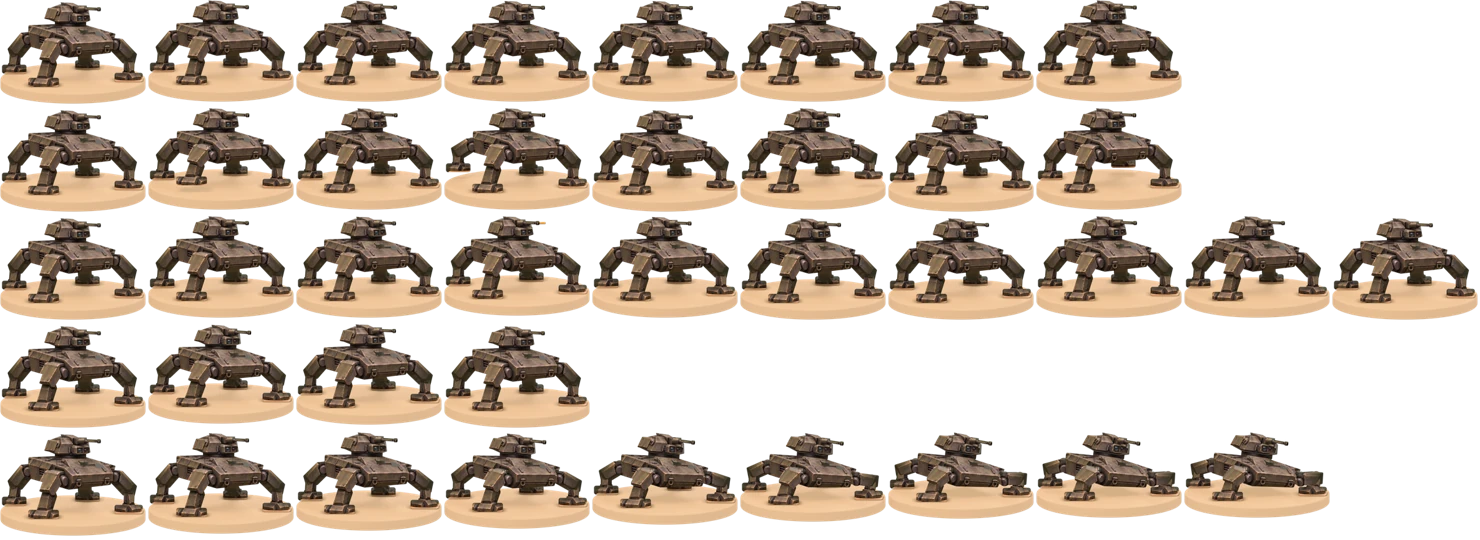
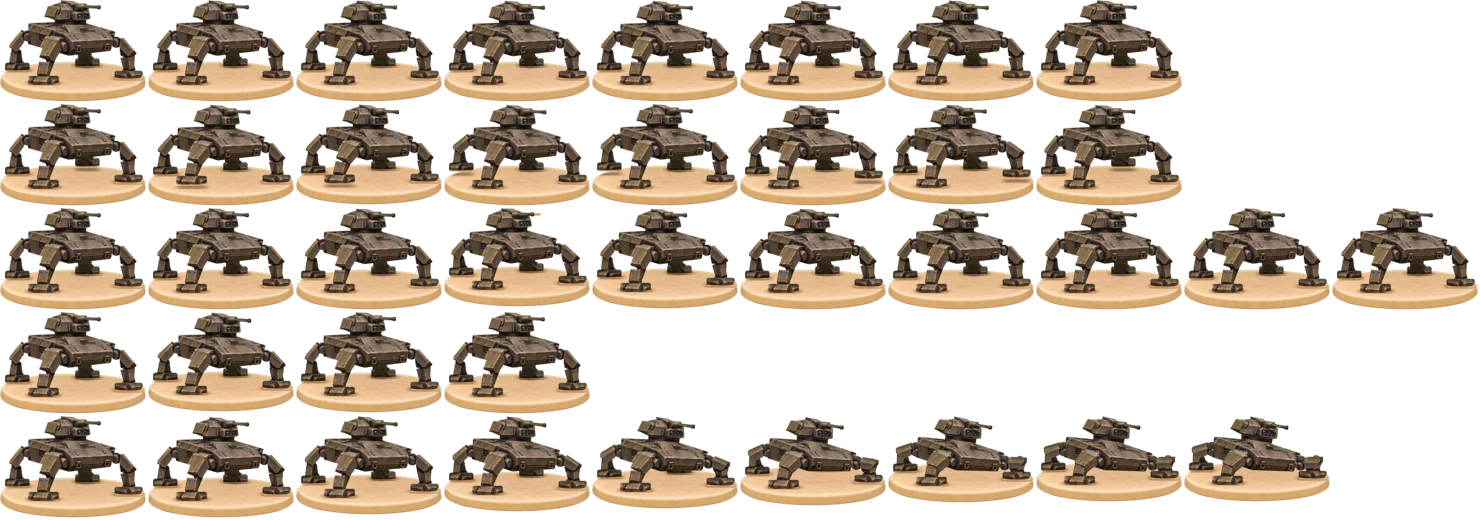
Codex task unit-anim-3d-hunter-killer: work left uncommitted in the sandbox

Changed region(s): [[0.0, 0.0, 1.0, 1.0]]

diff --git a/tools/art/anim3d/units/hunter-killer/finish.py b/tools/art/anim3d/units/hunter-killer/finish.py
@@ -50,12 +50,20 @@ for o in sc.objects:
  # Painting-specific display transform and camera-ray pigment avoid double-lighting.
  em=n.new('ShaderNodeEmission');l.new(mix.outputs[0],em.inputs['Color']);ray=n.new('ShaderNodeLightPath');factor=n.new('ShaderNodeMath');factor.operation='MULTIPLY';l.new(mask.outputs[0],factor.inputs[0]);l.new(ray.outputs['Is Camera Ray'],factor.inputs[1]);strength=n.new('ShaderNodeMath');strength.operation='MULTIPLY';strength.inputs[1].default_value=.94;l.new(factor.outputs[0],strength.inputs[0]);mixs=n.new('ShaderNodeMixShader');l.new(strength.outputs[0],mixs.inputs[0]);l.new(s.outputs[0],mixs.inputs[1]);l.new(em.outputs[0],mixs.inputs[2]);l.new(mixs.outputs[0],out.inputs['Surface'])
  records.append(o.name)
-# Stone is intentionally independent of the painting's feet/contact shadows.
-m=bpy.data.materials['MAT-cream stone E9CFA0'];n=m.node_tree.nodes;l=m.node_tree.links;s=n.get('Principled BSDF');noise=n.new('ShaderNodeTexNoise');noise.inputs['Scale'].default_value=150;b=n.new('ShaderNodeBump');b.inputs['Strength'].default_value=.10;b.inputs['Distance'].default_value=.008;l.new(noise.outputs['Fac'],b.inputs['Height']);l.new(b.outputs[0],s.inputs['Normal']);s.inputs['Roughness'].default_value=.88
-# Camera-only painted stone preserves warm rim pigment; short-range AO retains
-# real foot contact without baking source feet into the fixed base.
-ao=n.new('ShaderNodeAmbientOcclusion');ao.inputs['Color'].default_value=(.815,.624,.352,1);ao.inputs['Distance'].default_value=.20
-em=n.new('ShaderNodeEmission');l.new(ao.outputs['Color'],em.inputs['Color']);ray=n.new('ShaderNodeLightPath');fac=n.new('ShaderNodeMath');fac.operation='MULTIPLY';fac.inputs[1].default_value=.72;l.new(ray.outputs['Is Camera Ray'],fac.inputs[0]);blend=n.new('ShaderNodeMixShader');l.new(fac.outputs[0],blend.inputs[0]);l.new(s.outputs[0],blend.inputs[1]);l.new(em.outputs[0],blend.inputs[2]);l.new(blend.outputs[0],n.get('Material Output').inputs['Surface'])
+# Independent stone material: camera-visible mineral grain, physical contact AO,
+# and only the unobscured lower painted disc. No reference foot/shadow survives.
+base=bpy.data.objects['GEO-Stationary cream disc']
+m=bpy.data.materials['MAT-cream stone E9CFA0'];n=m.node_tree.nodes;l=m.node_tree.links;s=n.get('Principled BSDF')
+noise=n.new('ShaderNodeTexNoise');noise.inputs['Scale'].default_value=110;noise.inputs['Detail'].default_value=3
+b=n.new('ShaderNodeBump');b.inputs['Strength'].default_value=.20;b.inputs['Distance'].default_value=.012;l.new(noise.outputs['Fac'],b.inputs['Height']);l.new(b.outputs[0],s.inputs['Normal']);s.inputs['Roughness'].default_value=.88
+ramp=n.new('ShaderNodeValToRGB');ramp.color_ramp.elements[0].position=.22;ramp.color_ramp.elements[0].color=(.70,.48,.26,1);ramp.color_ramp.elements[1].position=.78;ramp.color_ramp.elements[1].color=(.95,.77,.51,1);l.new(noise.outputs['Fac'],ramp.inputs[0])
+uv=base.data.uv_layers.new(name='StoneCamera')
+for loop in base.data.loops:
+ p=world_to_camera_view(sc,sc.camera,base.matrix_world@base.data.vertices[loop.vertex_index].co);uv.data[loop.index].uv=(p.x,p.y)
+uvnode=n.new('ShaderNodeUVMap');uvnode.uv_map='StoneCamera';tex=n.new('ShaderNodeTexImage');tex.image=bpy.data.images.load(str(ASSETS/'stone-projection.png'));tex.extension='CLIP';l.new(uvnode.outputs[0],tex.inputs[0])
+pigment=n.new('ShaderNodeMixRGB');l.new(tex.outputs['Alpha'],pigment.inputs[0]);l.new(ramp.outputs[0],pigment.inputs[1]);l.new(tex.outputs['Color'],pigment.inputs[2]);l.new(pigment.outputs[0],s.inputs['Base Color'])
+ao=n.new('ShaderNodeAmbientOcclusion');l.new(pigment.outputs[0],ao.inputs['Color']);ao.inputs['Distance'].default_value=.20
+em=n.new('ShaderNodeEmission');l.new(ao.outputs['Color'],em.inputs['Color']);ray=n.new('ShaderNodeLightPath');fac=n.new('ShaderNodeMath');fac.operation='MULTIPLY';fac.inputs[1].default_value=.91;l.new(ray.outputs['Is Camera Ray'],fac.inputs[0]);blend=n.new('ShaderNodeMixShader');l.new(fac.outputs[0],blend.inputs[0]);l.new(s.outputs[0],blend.inputs[1]);l.new(em.outputs[0],blend.inputs[2]);l.new(blend.outputs[0],n.get('Material Output').inputs['Surface'])
 bpy.ops.file.pack_all();bpy.ops.wm.save_as_mainfile(filepath=str(MASTER/'finished.blend'))
-(MASTER/'materials.json').write_text(json.dumps({'projected_meshes':records,'bakes':{name:{k:str(v.filepath_raw) for k,v in maps.items()} for name,maps in baked.items()},'hidden_fill':'original tank painted olive CC BY 4.0; box projected', 'base':'linear pigment from sRGB E9CFA0; independent contact shadows'},indent=2))
+(MASTER/'materials.json').write_text(json.dumps({'projected_meshes':records,'bakes':{name:{k:str(v.filepath_raw) for k,v in maps.items()} for name,maps in baked.items()},'hidden_fill':'original tank painted olive CC BY 4.0; box projected', 'base':'generated clean stone fill plus original rim below y184, independent contact shadows'},indent=2))
 log('Finished frozen camera projection on solid geometry; six actual AO/curvature bakes, generated olive hidden-surface fill, grain and chipped edges. No alpha clipping or painted base feet.')

diff --git a/tools/art/anim3d/units/hunter-killer/scene.py b/tools/art/anim3d/units/hunter-killer/scene.py
@@ -39,7 +39,7 @@ def poly(name,points,depth,material=olive,parent=None):
  return finish(o,name,material,parent,.018)
 # Camera and one stationary cream base.
 camdata=bpy.data.cameras.new('CAM-reference');cam=bpy.data.objects.new('CAM-reference',camdata);sc.collection.objects.link(cam);cam.location=TARGET+VIEW*15;cam.rotation_euler=(-VIEW).to_track_quat('-Z','Y').to_euler();camdata.type='ORTHO';camdata.ortho_scale=5.12;sc.camera=cam
-bpy.ops.mesh.primitive_cylinder_add(vertices=128,radius=2.32,depth=.32,location=(0,0,.16));base=finish(bpy.context.object,'Stationary cream disc',stone,bevel=.035)
+bpy.ops.mesh.primitive_cylinder_add(vertices=128,radius=2.32,depth=.32,location=(0,0,.16));base=finish(bpy.context.object,'Stationary cream disc',stone,bevel=.09)
 # Chassis is an independent rigid transform; legs solve against its moving hips.
 body=empty('RIG-chassis',(0,0,1.45));bpy.context.view_layer.update()
 # Explicit six-face hull topology: each visible plane is an actual armour face.
@@ -66,20 +66,31 @@ cyl('Muzzle collar',screen(167,58,.3),screen(172,58,.3),.064,steel,recoil)
 cyl('Dark recessed bore',screen(172,58,.3),screen(172.4,58,.3),.040,dark,recoil)
 # Four independent closed mechanical limbs; no animal skeleton or borrowed dog motion.
 legs=[]
-for name,h,k,f in [('near-left',(108,116,1.61),(91,142,.95),(81,174,.43)),('far-left',(55,104,1.53),(36,127,.91),(34,153,.43)),('near-right',(197,114,1.60),(218,136,.95),(217,166,.43)),('far-right',(146,118,1.44),(147,133,.86),(151,146,.43))]:
+for name,h,k,f in [('near-left',(108,116,1.61),(91,142,.95),(81,174,.43)),('far-left',(55,104,1.53),(36,127,.91),(39,153,.43)),('near-right',(197,114,1.60),(218,136,.95),(217,166,.43)),('far-right',(146,118,1.44),(147,133,.86),(151,146,.43))]:
  hip,knee,foot=[atz(*v) for v in (h,k,f)]
  upper=empty('RIG-upper-'+name,hip);lower=empty('RIG-lower-'+name,knee);shoe=empty('RIG-foot-'+name,foot);bpy.context.view_layer.update()
  upper.rotation_mode=lower.rotation_mode='QUATERNION'
  # Put mesh endpoints in world rest space and retain those exact transforms.
  delta=knee-hip
- if name=='near-left':
+ if name in ('near-left','far-left','near-right'):
   normal=(VIEW-delta.normalized()*delta.normalized().dot(VIEW)).normalized();plane=(hip+knee)/2+normal*.23
-  outline=[(89,106),(110,109),(114,119),(97,146),(74,138),(80,121)]
+  outline={'near-left':[(89,106),(110,109),(114,119),(97,146),(74,138),(80,121)],
+           'far-left':[(46,94),(54,100),(49,115),(39,129),(26,122),(27,117)],
+           'near-right':[(201,108),(209,107),(230,132),(218,144),(204,135)]}[name]
   points=[(x,y,normal.dot(plane-screen(x,y))/normal.dot(VIEW)) for x,y in outline]
   o=poly('Upper armour '+name,points,.43,olive,upper)
  else:
   o=cube('Upper armour '+name,(hip+knee)/2,(.43,.38,delta.length+.13),olive,None,.035);o.rotation_euler=delta.to_track_quat('Z','Y').to_euler();bpy.context.view_layer.update();o.parent=upper;o.matrix_parent_inverse=upper.matrix_world.inverted()
- delta=foot-knee;o=cube('Lower shin '+name,(knee+foot)/2,(.42 if name=='near-left' else .32,.31,delta.length+.08),olive,None,.025);o.rotation_euler=delta.to_track_quat('Z','Y').to_euler();bpy.context.view_layer.update();o.parent=lower;o.matrix_parent_inverse=lower.matrix_world.inverted()
+ delta=foot-knee
+ shin_outlines={'near-left':[(74,145),(95,147),(90,166),(70,166)],
+                'far-left':[(29,129),(46,130),(43,147),(26,147)],
+                'near-right':[(204,139),(223,137),(228,158),(209,158)]}
+ if name in shin_outlines:
+  normal=(VIEW-delta.normalized()*delta.normalized().dot(VIEW)).normalized();plane=(knee+foot)/2+normal*.16
+  points=[(x,y,normal.dot(plane-screen(x,y))/normal.dot(VIEW)) for x,y in shin_outlines[name]]
+  poly('Lower shin '+name,points,.31,olive,lower)
+ else:
+  o=cube('Lower shin '+name,(knee+foot)/2,(.32,.31,delta.length+.08),olive,None,.025);o.rotation_euler=delta.to_track_quat('Z','Y').to_euler();bpy.context.view_layer.update();o.parent=lower;o.matrix_parent_inverse=lower.matrix_world.inverted()
  for label,p,par,rad in [('Hip',hip,upper,.175),('Knee',knee,lower,.13)]:
   cyl(label+' pin '+name,p-VIEW*.20,p+VIEW*.24,rad,dark,par);cyl(label+' cap '+name,p+VIEW*.24,p+VIEW*.265,rad*.8,steel,par)
  o=cube('Broad foot '+name,(foot.x,foot.y,.415),(.98 if name=='near-left' else .9 if name=='near-right' else .78,.58,.19),olive,shoe,.065)

diff --git a/tools/art/anim3d/units/hunter-killer/animate.py b/tools/art/anim3d/units/hunter-killer/animate.py
@@ -29,9 +29,9 @@ for clip,(count,fps,loop) in CLIPS.items():
  for frame in range(1,count+2 if loop else count+1):
   t=(frame-1)/(count if loop else count-1);s=math.sin(TAU*t);body.location=body0;body.rotation_euler=(0,0,0);turret.rotation_euler=turret0;recoil.location=recoil0;flash.hide_render=True
   if clip=='idle':body.location.z-=.012*(1-math.cos(TAU*t));turret.rotation_euler.z+=math.radians(2)*s
-  elif clip=='move':body.location.x+=.025*math.sin(TAU*t);body.location.z-=.035*math.sin(4*TAU*t)**2
+  elif clip=='move':body.location.x+=.055*math.sin(TAU*t);body.location.z-=.025*(1-math.cos(2*TAU*t));body.rotation_euler.y=.012*math.sin(TAU*t)
   elif clip=='attack':
-   pulse=max(0,1-abs(t-.34)/.14);body.location.x-=.045*pulse;body.location.z-=.07*pulse;turret.rotation_euler.z+=math.radians(3)*math.sin(math.pi*t);recoil.location.x-=.14*pulse;flash.hide_render=not(.27<t<.43)
+   pulse=[0,.0,.15,1,.55,.20,.05,0,0,0][frame-1];body.location.x-=.075*pulse;body.location.z-=.09*pulse;body.rotation_euler.y=-.025*pulse;turret.rotation_euler.z+=math.radians(3)*math.sin(math.pi*t);recoil.location.x-=.24*pulse;flash.hide_render=not(.27<t<.43)
   elif clip=='hit':
    q=[0,1,-.35,0][frame-1];body.location.x+=.06*q;body.location.z-=.09*abs(q);body.rotation_euler.y+=.018*q;turret.rotation_euler.z-=.04*q
   elif clip=='death':
@@ -42,8 +42,8 @@ for clip,(count,fps,loop) in CLIPS.items():
    hip0,knee0,foot0=[Vector(leg[k]) for k in ('hip','knee','foot')];hip=body.matrix_world@(bodymat.inverted()@hip0);foot=foot0.copy();air=False
    if clip=='move':
     phase=(t-j/4)%1
-    if phase<.25:
-     u=phase*4;lift=math.sin(math.pi*u)**2;foot.z+=.24*lift;foot.y-=.12*math.sin(TAU*u)*lift;air=lift>1e-8
+    if phase<.375:
+     u=phase/.375;lift=math.sin(math.pi*u)**2;foot.z+=.18*lift;foot.y-=.03*math.sin(TAU*u)*lift;air=lift>1e-8
    knee=solve(hip,foot,knee0,hip0,foot0,*leg['lengths'])
    upper=bpy.data.objects['RIG-upper-'+leg['name']];lower=bpy.data.objects['RIG-lower-'+leg['name']];shoe=bpy.data.objects['RIG-foot-'+leg['name']]
    upper.location=hip;lower.location=knee;shoe.location=foot

diff --git a/tools/art/anim3d/units/hunter-killer/preflight.py b/tools/art/anim3d/units/hunter-killer/preflight.py
@@ -1,0 +1,49 @@
+"""Bind the editable scene set to its recipe and external texture inputs."""
+import hashlib
+import json
+import sys
+from pathlib import Path
+from common import MASTER, ASSETS, CLIPS
+
+UNIT = Path(__file__).resolve().parent
+RECIPES = ('common.py', 'prepare.py', 'scene.py', 'finish.py', 'animate.py', 'assets.lock.json')
+SCENES = ['model.blend', 'plain.blend', 'finished.blend'] + [f'clips/{c}.blend' for c in CLIPS]
+
+
+def digest(path):
+    return hashlib.sha256(Path(path).read_bytes()).hexdigest()
+
+
+def inputs():
+    pinned = json.loads((UNIT / 'assets.lock.json').read_text())
+    for name, expected in pinned.items():
+        assert digest(name) == expected, f'Changed source asset: {name}'
+    return {str(UNIT / name): digest(UNIT / name) for name in RECIPES} | pinned
+
+
+def main(task):
+    pending = MASTER / 'build-pending'
+    receipt = MASTER / 'build-inputs.json'
+    if task == 'begin':
+        pending.write_text(json.dumps(inputs(), indent=2))
+        return
+    if task == 'seal':
+        current = inputs()
+        assert json.loads(pending.read_text()) == current, 'Recipe changed during build; rebuild'
+        files = {str(MASTER / name): digest(MASTER / name) for name in SCENES}
+        files.update({str(ASSETS / name): digest(ASSETS / name)
+                      for name in ('projection.png', 'stone-projection.png')})
+        receipt.write_text(json.dumps({'inputs': current, 'outputs': files}, indent=2))
+        pending.unlink()
+        return
+    assert task == 'verify'
+    assert not pending.exists(), 'Incomplete build; rebuild and finish before rendering'
+    report = json.loads(receipt.read_text())
+    assert inputs() == report['inputs'], 'Scene recipes changed; rebuild before GPU pass'
+    for name, expected in report['outputs'].items():
+        assert digest(name) == expected, f'Changed scene or derived texture: {name}'
+    print('Sealed recipe, inputs, derived textures and eight scene files verified.')
+
+
+if __name__ == '__main__':
+    main(sys.argv[1])

diff --git a/tools/art/anim3d/units/hunter-killer/deliver.py b/tools/art/anim3d/units/hunter-killer/deliver.py
@@ -56,15 +56,15 @@ def review(stage):
                      for n in (256,512) if meta['resolution']>=n}
     (folder/'graded.json').write_text(json.dumps(meta,indent=2))
     if stage=='c':
-        sheet([ref,images[0]],['Painting','Cycles rest'],REVIEW/f'{SLUG}-c-textured-lit.png')
+        sheet([ref,images[0]],['Painting',f'Cycles {meta["device"]} {meta["resolution"]}px'],REVIEW/f'{SLUG}-c-textured-lit.png')
         canvas=Image.new('RGBA',(768,376),CREAM);d=ImageDraw.Draw(canvas)
-        for i,(im,label) in enumerate([(ref,'Painting'),(images[0],'3D rest'),(Image.blend(ref,images[0],.5),'50/50 crossfade')]):
+        for i,(im,label) in enumerate([(ref,'Painting'),(images[0],f'3D {meta["device"]} rest'),(Image.blend(ref,images[0],.5),'50/50 crossfade')]):
             canvas.alpha_composite(im,(256*i,28));token=read(Path(f'app/src/assets/units/{SLUG}-64.png')) if i==0 else small(im,64);canvas.alpha_composite(token,(256*i+96,302));d.text((256*i+8,8),label,fill='#423a30')
         canvas.convert('RGB').save(REVIEW/f'{SLUG}-f-restpose-compare.png')
     elif stage=='details':
         crops=[];labels=[]
         for label,box in [('turret / optics',(78,45,175,84)),('hull wear',(51,80,199,138)),('near leg',(55,103,117,184))]:
-            for im,prefix in [(read(ASSETS/'projection.png'),'Painting'),(images[0],'3D')]:
+            for im,prefix in [(ref,'Painting 256px'),(images[0],'3D 256px')]:
                 scale=im.width/256;crop=im.crop(tuple(round(v*scale) for v in box));fit=min(248/crop.width,240/crop.height);crop=crop.resize((round(crop.width*fit),round(crop.height*fit)),Image.Resampling.LANCZOS)
                 tile=Image.new('RGBA',(256,256));tile.alpha_composite(crop,((256-crop.width)//2,(256-crop.height)//2));crops.append(tile);labels.append(prefix+' '+label)
         sheet(crops,labels,REVIEW/f'{SLUG}-c-details.png')

diff --git a/tools/art/anim3d/units/hunter-killer/prepare.py b/tools/art/anim3d/units/hunter-killer/prepare.py
@@ -14,6 +14,25 @@ fig = fig.resize((round(fig.width*k), round(fig.height*k)), Image.Resampling.LAN
 out = Image.new('RGBA', (1024, 1024))
 out.alpha_composite(fig, ((1024-fig.width)//2, (1024-fig.height)//2))
 out.save(ASSETS / 'projection.png')
+# Fit the generated clean disc to the original stone's known camera landmarks.
+# Its alpha never cuts Blender geometry; the original lower rim stays intact.
+fill = Image.open(ASSETS / 'stone-fill-source.png').convert('RGBA')
+box = fill.getchannel('A').point(lambda x: 255 if x > 240 else 0).getbbox()
+fill = fill.crop(box).resize((928, 248), Image.Resampling.LANCZOS)
+clean = Image.new('RGBA', out.size)
+clean.alpha_composite(fill, (48, 592))
+# The lower disc is unobscured below the lowest painted foot. Feather a mask
+# above that line; never freeze any reference feet or contact shadows on the base.
+stone = out.copy()
+mask = Image.new('L', out.size)
+for y in range(out.height):
+    weight = max(0, min(1, (y / 4 - 184) / 4))
+    if weight:
+        for x in range(out.width):
+            mask.putpixel((x, y), round(out.getpixel((x, y))[3] * weight))
+stone.putalpha(mask)
+clean.alpha_composite(stone)
+clean.save(ASSETS / 'stone-projection.png')
 (MASTER / 'inputs.json').write_text(json.dumps({
     'source_sha256': hashlib.sha256(source.read_bytes()).hexdigest(),
     'source_url': f'https://pub-fb5c281dd12d4ea4bbd38d657cdeb907.r2.dev/app/src/assets/units/{SLUG}-source.png',

diff --git a/tools/art/anim3d/units/hunter-killer/REVIEW.md b/tools/art/anim3d/units/hunter-killer/REVIEW.md
@@ -1,32 +1,33 @@
-# Hunter-killer round 1
+# Hunter-killer driver round 2
 
-CPU candidate; **not PASS**. The rest image reads as the same walker at 64 px, and frozen painting projection gives convincing panel wear at 256 px. It is still distinguishable from the painting: the cream disc is too smooth, its rim/edge highlights are flatter, the leg/foot silhouettes and upper hull proportions differ, and the projection is visibly stretched in alternate views. The move is stiff on-the-spot mechanical stepping rather than convincing advancing locomotion; the compact attack and folding death need timing/art review. The original prompt explicitly asks for a four-legged machine, so aircraft motion and animal mocap would be the wrong category.
+**Not PASS.** At 64 px this reads as the same unit, with closer outer legs and a less plastic cream base. At 256 px the stone grain and silhouettes improve on round 1, but the turret and joint shapes remain simplified, the base highlight is too continuous, and some projected armour loses depth when moving. Movement is still deliberate in-place mechanical stepping; it does not convincingly advance. No PASS marker was written.
 
-## Delivered
+## Changes and evidence
 
-- Unit-isolated build/material/rig/render/review/delivery scripts, provenance, input hashes and no-argument executable `gpu.sh`.
-- External editable model/plain/finished masters, five keyed clip scenes, six AO/Pointiness bakes, and all forty CPU256 RGBA frames under `~/LegatumRuns/anim-pilot/masters/hunter-killer/`.
-- Every required b/c/details/d/e/f/g review image, five animated WebPs, running log and round-1 MP4 under `~/LegatumRuns/anim-pilot/review/3d-v2/`.
-- Candidate `app/src/assets/units/anim/hunter-killer.webp` + JSON: 160 px logical frames, per-frame trim offsets, 8/8/10/4/10 samples, Q90, **182,178 bytes**. No runtime wiring replaces the painting.
+- Opened the lead GPU c/f, every clip strip and sampled round-1 MP4 frames before editing. Round 1 actually succeeded: 187,526 bytes at Q90 and verified GPU512/256 masters. Archived its review files and master frames in `masters/hunter-killer/driver-r1-gpu/`.
+- Refitted full-depth outer upper armour and three shin contours; moved the far-left foot inward and widened the stone bevel. Kept the closed mechanical rig, six AO/Pointiness bakes, original projected painting, generated olive backfill and product lights.
+- Built-in ImageGen supplied a clean stone occlusion fill, registered to the base and feathered into the original lower rim. The real mesh carries it; alpha never cuts geometry and no source feet are painted on the fixed disc. Prompt: `stone-fill.prompt.txt`; bitmap: external `assets/hunter-killer/stone-fill-source.png`; input hash and licence recorded.
+- Lengthened overlapping foot swings, reduced fore-aft travel after the rear leg reached its IK limit, added chassis weight shift and stronger recoil/recovery. All rigid links keep their lengths and planted feet retain their positions.
+- Added sealed recipe/input/scene checks before final rendering and GPU work. Incomplete or stale builds now fail explicitly. `gpu.sh` defaults to round 2 and still renders every stage, all masters, atlas, validation and movie.
+- Review c/f labels state CPU/GPU. Detail crops now compare both images at native 256 px; previously the original 1024 source was compared against an enlarged 256 render.
 
-## Verification
+## Exact checks
 
-- Complete CPU final pipeline: exit 0, Cycles, eight samples, actual 256 px renders; atlas validation passed all forty alpha/trim reconstructions, bounds, motion, size/quality and held-death checks. Idle/move boundary-to-largest-internal-difference ratios .789/.783.
-- Geometry audit: 62 manifold closed meshes, four rigid IK legs, six baked maps, zero sampled planted-foot error, maximum segment-length error 2.63e-7 Blender units. Saved endpoint transforms meet the knees/feet, base stays fixed, loop endpoints close and no zero/near-zero scale is used. Not a full collision audit.
-- FFprobe: 1600x348, H.264, yuv420p, 240 frames, exactly eight seconds. Decoded representative MP4 frames visually inspected.
-- Python AST and shell syntax checks passed; `git diff --check` passed.
-- The GPU entry point was exercised: input hashes and scene audit passed, then it stopped explicitly with `No Metal device; refusing CPU fallback`, as expected in this sandbox. CPU evidence was preserved. **Actual GPU512 masters and independent GPU verification are pending**; previews were not upscaled and no GPU success is claimed.
+- Complete CPU pipeline: exit 0; Cycles CPU, 256 px, 16 samples. All b/c/details/d/g stages plus 8/8/10/4/10 clip frames, five animated WebPs, f comparison and round-2 MP4 regenerated. No CPU preview was upscaled to a 512 master; existing round-1 GPU512 files remain historical until the new GPU pass.
+- Trimmed 160 px atlas: **193,792 bytes, WebP Q90** (Q95 was 250,144 bytes). All 40 frames retained; transparent alpha/trim reconstruction, frame bounds, clip metadata, motion, provenance and held death passed. Idle/move loop seam ratios 0.781931/0.734352.
+- Geometry audit: **62 closed manifold meshes**, four IK legs, six baked maps, zero sampled planted-foot error, maximum segment-length error **2.626983e-7** Blender units; fixed base and closed loop endpoints. This is not a complete collision audit.
+- FFprobe: **1600x348 H.264 yuv420p, 240 frames, exactly 8 seconds**. All five strips, top/front foot sheet and decoded MP4 contact sheet inspected; no detached parts or frozen painted feet observed in those views.
+- Preflight positive check and intentional incomplete/stale-recipe rejection checks passed. Python AST, shell syntax and whitespace checks passed. No Rust or UI changes, so their build suites were not run.
+- Round-2 GPU512 rendering remains pending on the lead's Metal host. The current CPU evidence is not a GPU or art sign-off.
 
 ## Lead command
 
-Run from this checkout's repo root on the Metal host:
-
 ```sh
-ROUND=1 tools/art/anim3d/units/hunter-killer/gpu.sh
+ROUND=2 tools/art/anim3d/units/hunter-killer/gpu.sh
 ```
 
-This renders every stage and all clips at GPU512, retains 512/256 masters, creates the atlas, validates it, regenerates every review image and the MP4, and writes the GPU receipt only on verified success. No PASS marker is created automatically.
+Run from this checkout on the GPU host. No arguments needed. It verifies sealed masters, renders every stage serially at GPU512/96 samples, creates 256 gallery frames and the trimmed atlas, validates provenance and video, and publishes the round-2 receipt. Review painting parity before setting PASS.
 
-Non-obvious lessons: register the mechanical mount in physical space as well as the image; a tiny painted turret gap became a floating turret until a full-depth overlapping socket was added. Projected paint can hide disconnected geometry, so retain plain alternate views. A nearly straight rear leg left too little reach for upward idle bob; compress the chassis instead of stretching links or sliding feet. The stone must not carry projected feet when legs move.
+Non-obvious findings: a near-extended rear leg limits fore-aft swing well before the visible front legs do; preserve link lengths and reduce travel rather than forcing the solver. A source-projected base must exclude feet and shadows, or motion leaves ghost contacts. Detail comparisons must use matching resolution. Changes to a script must invalidate the baked scenes as well as render hashes.
 
-Git staging/commit were attempted and refused by the sandbox (`.git/worktrees/lane-14/index.lock: Operation not permitted`). Changes remain uncommitted for the runner. `origin/master` is already an ancestor of the starting HEAD; no merge was required. Rust/UI code is unchanged, so their build suites were not run. The commit-based browser art gate cannot validate this uncommitted candidate; lead art approval remains pending.
+Git staging/commit attempted; sandbox denied `.git/worktrees/lane-15/index.lock` (Operation not permitted). Changes remain uncommitted for the runner. `origin/master` is already an ancestor of HEAD. No push or PR. Commit trailer: `Co-Authored-By: gpt-6-astra (Codex) <noreply@openai.com>`.

diff --git a/tools/art/anim3d/PLAYBOOK.md b/tools/art/anim3d/PLAYBOOK.md
@@ -133,7 +133,7 @@ Publish every stage immediately: `b-plain`, `c-textured-lit`, `c-details`, `d-ri
 
 ### Motion and planted-foot check
 
-For people the standing standard is CMU free-use or Quaternius CC0 captured motion retargeted in matching rest pose and bone roll, with only the weapon-specific attack authored. For horses/elephants use an open animated quadruped; never repair foot direction by rotating feet after retargeting. Record licences in both unit and external source ledgers. This machine instead uses the vehicle family's authored mechanical motion: a rigid chassis/turret/recoil rig and four analytic two-link limbs. Each quarter-cycle raises one foot; its ground position and forward orientation stay fixed while planted. Move is a deliberate on-the-spot stepping cycle, not locomotion with simulated world displacement. Idle scans, attack aims/recoils, hit jolts, and death collapses the chassis into folded legs and holds its final two samples. No squashed segment lengths or zero scale.
+For people the standing standard is CMU free-use or Quaternius CC0 captured motion retargeted in matching rest pose and bone roll, with only the weapon-specific attack authored. For horses/elephants use an open animated quadruped; never repair foot direction by rotating feet after retargeting. Record licences in both unit and external source ledgers. This machine instead uses the vehicle family's authored mechanical motion: a rigid chassis/turret/recoil rig and four analytic two-link limbs. Each quarter-cycle begins a foot swing lasting three eighths of a cycle; its ground position and forward orientation stay fixed while planted. Move is a deliberate on-the-spot stepping cycle, not locomotion with simulated world displacement. Idle scans, attack aims/recoils, hit jolts, and death collapses the chassis into folded legs and holds its final two samples. No squashed segment lengths or zero scale.
 
 Every round renders all eight move samples from top and front to `hunter-killer-g-feet-check.png`. The audit independently reads saved foot transforms and records planted-position error, segment-length error, stationary base, closed mesh topology, nonzero scales and terminal hold. Visual review must still catch silhouette faults, collisions and timing.
 
@@ -144,7 +144,15 @@ All 40 frames remain: idle 8, move 8, attack 10, hit 4, death 10. Actual final r
 JSON has `version:2`, `trimmed:true`, `frame:{w:160,h:160,ax:80,ay:139}`, `atlas:{w,h}` and `clips`. Each clip has ordered `row`, `frames`, `fps`, `loop`, and one `rects` record per frame: `{x,y,w,h,ox,oy}`. Draw the atlas crop at `(anchorX-ax+ox, anchorY-ay+oy)`, scaling all coordinates equally. `row` is clip ordering, not a fixed atlas grid. Identical held frames reuse one rectangle. No runtime consumer is changed here.
 
 ```sh
-ROUND=1 tools/art/anim3d/units/hunter-killer/gpu.sh
+ROUND=2 tools/art/anim3d/units/hunter-killer/gpu.sh
 ```
 
 The no-argument executable renders every stage and every clip serially in Cycles GPU512 (96 samples default), publishes 512/256 masters, packs and validates the trimmed atlas, writes the geometry audit, and creates `hunter-killer-round${ROUND}.mp4`: all five decoded clips side by side at 2x on cream, exactly 8 seconds/240 frames, H.264 yuv420p. Missing Metal fails explicitly. Final independent verification checks scene/render/grade/atlas hashes, GPU device, resolution, complete frame sets, video format and duration. Progress/failure lives in `hunter-killer-gpu-status.txt`; transcript is `gpu-logs-hunter-killer-r${ROUND}.log`. Only a manual painting-parity judgement plus clean clips and a passing size contract may create `hunter-killer-PASS`; the scripts never write it automatically.
+
+### Driver round 2 refinements
+
+The lead's first GPU pass succeeded: 187,526 bytes at Q90, 40 GPU512 frames, independent GPU receipt and eight-second MP4. Preserve that evidence before overwriting previews (`masters/hunter-killer/driver-r1-gpu/`). Round 2 fits the outer upper plates and three shin silhouettes as closed extruded armour, brings the far-left foot inward, rounds the stone edge and adds recoil anticipation/recovery plus chassis weight shift. Longer overlapping foot swings reduce one-frame foot pops; forward reach is limited because the rear leg is close to full extension. Planted foot positions and segment lengths still come from the IK audit. This remains in-place mechanical stepping, not captured advancing locomotion.
+
+A new generated clean stone fill removes the walker and its contact shadows from the reference. Fit that texture to the disc landmarks, feather back to the original unobscured rim below y184/256, then freeze UVs on the physical disc. Its alpha blends pigments only, never cuts geometry. Camera-visible mineral grain and real AO retain surface detail without leaving painted feet when legs lift. The prompt, generation identity and input hash live in the unit files; the bitmap stays under `assets/hunter-killer/`. Existing generated olive still fills unseen armour. Cloth and straps do not apply to this machine.
+
+`render.sh build` starts a recipe/input seal; `finish` seals the complete eight-scene set only after all clips succeed. Final rendering and `gpu.sh` reject incomplete builds, changed recipes, changed derived textures and stale scene hashes. Rebuild then finish after any geometry/material/motion recipe change. GPU defaults to ROUND=2; the driver may override it. Every stage is published as soon as rendered. CPU checks use 256 px Cycles at 16 samples; GPU final remains a separate host pass at 512 px/96 samples. No automatic PASS marker.

diff --git a/tools/art/anim3d/units/hunter-killer/SOURCES.md b/tools/art/anim3d/units/hunter-killer/SOURCES.md
@@ -7,3 +7,7 @@
 - Vehicle chapter and paint/bake methods read with `git show astra/unit-anim-3d-vehicles` at `0b2616f595e964a79641689ec26d31d2ed56cd28`. Delivery/render helpers adapted as isolated unit-local copies from `astra/unit-anim-3d-autonomous-armour` at `8a0f4f8c733974fea55a3f51025f3bb803bd4ccf` (same repository MIT code).
 
 `assets.lock.json` pins the painting, shipped reference and generated fill. All downloaded assets, Blender masters, bakes and uncompressed renders remain under `~/LegatumRuns/anim-pilot/` outside git.
+
+## Hunter-killer driver round 2 after GPU review, 2026-11-23
+- Original built-in ImageGen clean stone occlusion fill: generation 01a2095f-d60f-7ae1-b551-c31a79587375/exec-6a833d2d-e574-4a4b-a9e9-9451f17d7016.png, original project CC BY 4.0, no public URL. Editing the recorded hunter-killer painting removes the walker and its shadows; only the exposed stone pigment textures the real 3D disc. Source stored at assets/hunter-killer/stone-fill-source.png, prompt in units/hunter-killer/stone-fill.prompt.txt, SHA256 in assets.lock.json. Original lower rim preserved below y184; generated alpha does not cut geometry.
+- Reuses the original CC BY 4.0 painting and generated tank olive fill recorded above. Full-depth fitted outer armour, bevelled stone, mechanical weight/recoil timing and guarded GPU handoff: MIT scripts, CC BY 4.0 renders. No human or animal motion applies. Prior GPU evidence preserved in masters/hunter-killer/driver-r1-gpu/.
